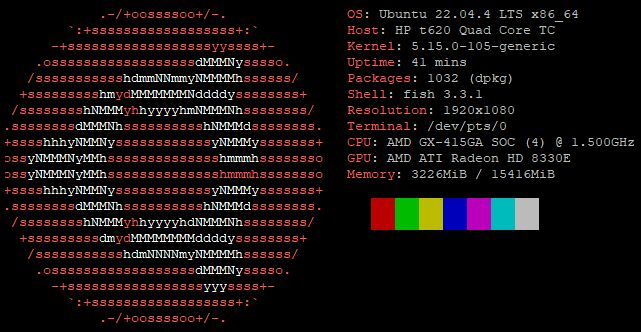
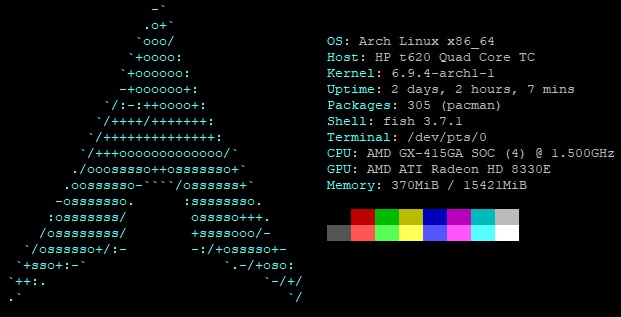
update

diff --git a/content/projekty/homeserver/index.md b/content/projekty/homeserver/index.md
@@ -20,5 +20,5 @@ Jde o konfiguraci se 4 jádrovým procesorem **AMD GX-415GA** s taktem **1,5GHz*
 ![full](3.jpg)
 
 ### Operační system a další software
-Jako operační systém jsem pro účely hostování domácího MC serveru, přesněji: [Majnr Plus](https://www.curseforge.com/minecraft/modpacks/majnr-plus) zvolil [Ubuntu Server](https://ubuntu.com/download/server). Pro hraní po internetu využívám služeb [PLAYIT.GG](https://playit.gg/), který poskytne rychlé a snadné propojení dalších hráčů odkudkoliv z internetu, bez nutnosti mít veřejnou IP adresu. [TeamSpeak Server](https://teamspeak.com/) pro komunikaci během hraní. Počet připojených klientů **1-3**.
+Jako operační systém jsem pro účely hostování domácího MC serveru, přesněji: [Majnr Plus](https://www.curseforge.com/minecraft/modpacks/majnr-plus) zvolil [Arch Linux](https://archlinux.org/). Pro hraní po internetu využívám služeb [PLAYIT.GG](https://playit.gg/), který poskytne rychlé a snadné propojení dalších hráčů odkudkoliv z internetu, bez nutnosti mít veřejnou IP adresu. [TeamSpeak Server](https://teamspeak.com/) pro komunikaci během hraní. Počet připojených klientů **1-3**.
 ![full](specs.jpg)
